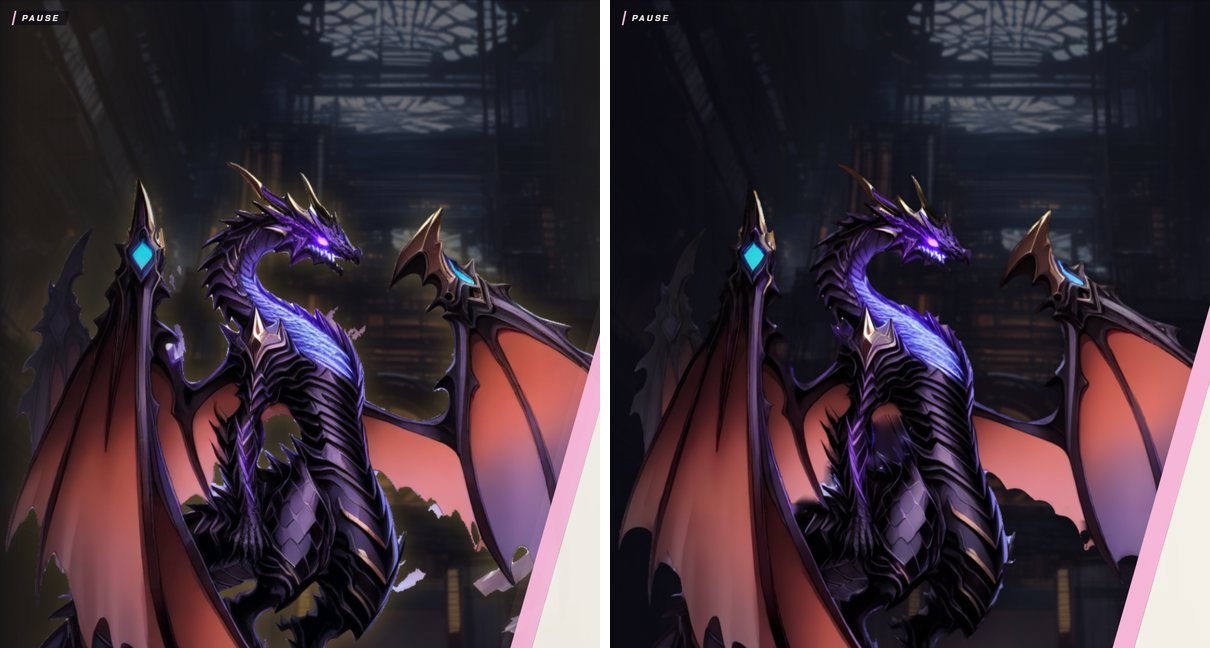
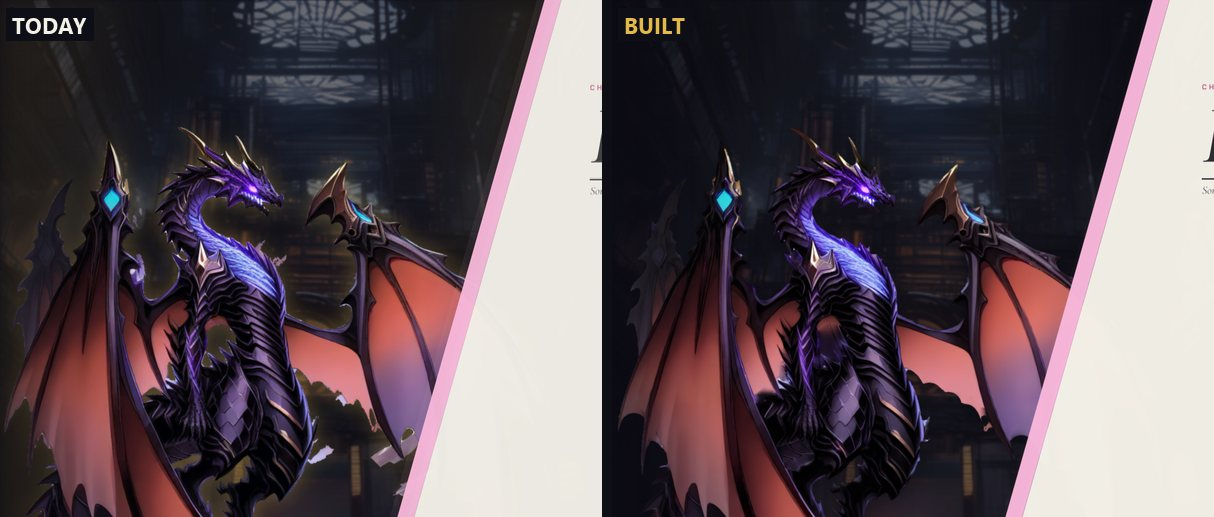
Boss matte, review round: install check, full sha256 list, round 2 handoff and screenshots (Bahamut FFX-2 only, Seymour Flux FFX only; records and tooling)
`tools/boss-matte-install.mjs --check|--install` reads the 158-row files list (now the full 64-hex sha256 of every old and new file, review minor 8) and refuses an art folder that is not the playtest art
state the re-cut was made from (minor 10: main's art lacks 143 of the 158 files; `D:/pyrefly-art-boss` reads 158 done, `D:/pyrefly-art-motion` 158 ready); each old file is unlinked before the new one is
written, so a hard link is never written through. The handoff gets the round 2 section (each finding, its disposition, its measure), the evidence, and the install steps; the repo screenshots are the final
frames (today and built in the same arena). The Bahamut pose pieces (24 of 25 rebuilt from the clean masters, `head.cast` kept, 49 specks removed, the rig gate re-stamped, fit overlaps 0.969 to 0.980)
are art in the mirror, not in this repo.

diff --git a/tests/unit/boss-matte-install.test.ts b/tests/unit/boss-matte-install.test.ts
@@ -1,0 +1,97 @@
+/**
+ * Lane boss-matte (2026-10-23): the install check of the boss re-cut (`tools/boss-matte-install.mjs`): it parses the files doc, classifies every row against an art folder and refuses a folder that is not the
+ * playtest art state the re-cut was made from. Bahamut is FFX-2 only, Seymour Flux FFX only; the tool is shared plumbing.
+ */
+import { createHash } from 'node:crypto';
+import { linkSync, mkdirSync, mkdtempSync, readFileSync, rmSync, statSync, writeFileSync } from 'node:fs';
+import { tmpdir } from 'node:os';
+import { join } from 'node:path';
+import { afterAll, describe, expect, it } from 'vitest';
+import { FILES_DOC, classify, install, parseFilesDoc, summarize } from '../../tools/boss-matte-install.mjs';
+
+const sha = (b: Buffer | string): string => createHash('sha256').update(b).digest('hex');
+const tmp = mkdtempSync(join(tmpdir(), 'boss-matte-install-'));
+afterAll(() => rmSync(tmp, { recursive: true, force: true }));
+
+describe('the files doc', () => {
+  const rows = parseFilesDoc(readFileSync(FILES_DOC, 'utf8'));
+  it('lists the two bosses files with full sha256 hashes', () => {
+    expect(rows.length).toBeGreaterThan(100);
+    for (const r of rows) {
+      expect(r.new).toMatch(/^[0-9a-f]{64}$/);
+      expect(r.old === null || /^[0-9a-f]{64}$/.test(r.old)).toBe(true);
+      expect(r.file).toMatch(/^(characters|rigs)\/(ffx2-bahamut|seymour-flux-body)\//);
+    }
+    expect(rows.some((r) => r.file === 'rigs/ffx2-bahamut/rig.json')).toBe(true);
+    expect(rows.some((r) => r.file === 'rigs/seymour-flux-body/rig.json')).toBe(true);
+    expect(new Set(rows.map((r) => r.file)).size).toBe(rows.length);
+  });
+});
+
+describe('classify and install', () => {
+  const rows = [
+    { file: 'characters/x/a.png', old: sha('a-old'), new: sha('a-new') },
+    { file: 'characters/x/b.png', old: sha('b-old'), new: sha('b-new') },
+    { file: 'rigs/x/c.png', old: null, new: sha('c-new') },
+    { file: 'rigs/x/d.png', old: sha('d-old'), new: sha('d-new') },
+  ];
+  const files: Record<string, string> = { 'characters/x/a.png': 'a-old', 'characters/x/b.png': 'b-new', 'rigs/x/d.png': 'something-else' };
+  const shaOf = (f: string): string | null => (files[f] === undefined ? null : sha(files[f]!));
+
+  it('names the state of every row', () => {
+    const c = classify(rows, shaOf);
+    expect(c.map((r) => r.state)).toEqual(['ready', 'done', 'add', 'conflict']);
+    const s = summarize(c);
+    expect(s).toMatchObject({ ready: 1, done: 1, add: 1, conflict: 1, missing: 0, total: 4, ok: false });
+  });
+
+  it('a file the original should be but is not there is `missing`: the folder is older than the playtest art', () => {
+    const c = classify(rows, () => null);
+    expect(c.map((r) => r.state)).toEqual(['missing', 'missing', 'add', 'missing']);
+    expect(summarize(c).ok).toBe(false);
+  });
+
+  it('a folder in the playtest state, or one already installed, is ok', () => {
+    const before = classify(rows, (f) => ({ 'characters/x/a.png': sha('a-old'), 'characters/x/b.png': sha('b-old'), 'rigs/x/d.png': sha('d-old') })[f] ?? null);
+    expect(summarize(before)).toMatchObject({ ready: 3, add: 1, ok: true });
+    const after = classify(rows, (f) => ({ 'characters/x/a.png': sha('a-new'), 'characters/x/b.png': sha('b-new'), 'rigs/x/c.png': sha('c-new'), 'rigs/x/d.png': sha('d-new') })[f] ?? null);
+    expect(summarize(after)).toMatchObject({ done: 4, ok: true });
+  });
+
+  it('installs by unlinking first, so a hard link to the original keeps its bytes', () => {
+    const art = join(tmp, 'art');
+    const keep = join(tmp, 'keep');
+    const mirror = join(tmp, 'mirror');
+    for (const d of [art, keep, mirror]) mkdirSync(join(d, 'characters/x'), { recursive: true });
+    mkdirSync(join(art, 'rigs/x'), { recursive: true });
+    mkdirSync(join(mirror, 'rigs/x'), { recursive: true });
+    writeFileSync(join(keep, 'characters/x/a.png'), 'a-old');
+    linkSync(join(keep, 'characters/x/a.png'), join(art, 'characters/x/a.png')); // the art folder's file IS the other folder's file
+    writeFileSync(join(mirror, 'characters/x/a.png'), 'a-new');
+    writeFileSync(join(mirror, 'rigs/x/c.png'), 'c-new');
+    const two = [rows[0]!, rows[2]!];
+    const c = classify(two, (f) => (statSafe(join(art, f)) ? sha(readFileSync(join(art, f))) : null));
+    expect(c.map((r) => r.state)).toEqual(['ready', 'add']);
+    expect(install(c, art, mirror)).toEqual(['characters/x/a.png', 'rigs/x/c.png']);
+    expect(readFileSync(join(art, 'characters/x/a.png'), 'utf8')).toBe('a-new');
+    expect(readFileSync(join(keep, 'characters/x/a.png'), 'utf8')).toBe('a-old'); // never written through the link
+    expect(readFileSync(join(art, 'rigs/x/c.png'), 'utf8')).toBe('c-new');
+  });
+
+  it('refuses a mirror file that is not the listed new one', () => {
+    const art = join(tmp, 'art2');
+    const mirror = join(tmp, 'mirror2');
+    mkdirSync(join(art, 'rigs/x'), { recursive: true });
+    mkdirSync(join(mirror, 'rigs/x'), { recursive: true });
+    writeFileSync(join(mirror, 'rigs/x/c.png'), 'not-the-listed-file');
+    expect(() => install(classify([rows[2]!], () => null), art, mirror)).toThrow(/not the listed new file/);
+  });
+});
+
+function statSafe(p: string): boolean {
+  try {
+    return statSync(p).isFile();
+  } catch {
+    return false;
+  }
+}

diff --git a/docs/handoff/boss-matte.md b/docs/handoff/boss-matte.md
@@ -3,10 +3,12 @@
 **Branch `boss-matte`, from `origin/pro-look` (673d76b94). Game case: Bahamut (Chapter IV) is FFX-2 only, Seymour Flux (Chapter I) is FFX only; the shared code (`BossClean.ts`, the two stage hooks, the card modifier) is "both", and only plays for those two figures. One switch, default OFF.**
 Bailey, 2026-10-23 about 10:15 (item 193 of the morning's board): "Yes, re-cut both" (the boss edges, rank-2 mockup option A "Clean cut-out"; the originals are kept). His standing rule of 2026-10-22: "I kind of want to take the ffx/ffx-2 that I know and love and put an expedition 33 kind of spin on it"; the bar is Expedition 33 and Hades. The gap is G20 of `D:/Tools/pyrefly-scratch/2026-10-22/pro-board/gaps/GAPS.md`; the target is `.../pro-board/mock/rank-2/` (option A).
 
+**Round 2 (2026-10-23, 15:00 to 17:00): a review found four majors and thirteen minors (`D:/Tools/pyrefly-scratch/2026-10-23/boss-matte/review/REVIEW.md`); the section "Review round 2" below lists each and what was done. The headline: the boss is now its own per-pixel mask (no rim left beside another figure), the Bahamut pose pieces are rebuilt from the clean masters, `?look=cinematic` no longer throws, and Bahamut's shadow reads.**
+
 ## How to run it (the driver)
 
 1. Code: branch `boss-matte` on `origin` (`git log` says the sha; it contains pro-look 673d76b94 and nothing else of the other lanes). Game case: Bahamut FFX-2 only, Seymour Flux FFX only.
-2. Art: point the tree's `public/art` at `D:/pyrefly-art-boss` (a junction, `cmd /c mklink /J`; it is `D:/pyrefly-art-motion` plus the 158 replaced files) for the test build; at the real install, see "For the driver" below.
+2. Art: point the tree's `public/art` at `D:/pyrefly-art-boss` (a junction, `cmd /c mklink /J`; it is `D:/pyrefly-art-motion` plus the 158 replaced files) for the test build; at the real install, see "For the driver" below. `node tools/boss-matte-install.mjs --check <art dir>` says in one line whether a folder is that state (`D:/pyrefly-art-boss`: 158 done; `D:/pyrefly-art-motion`: 158 ready; main's `public/art`: 143 missing, so it is NOT).
 3. Play: `?demo=1&pack=demo` (the pack turns `?boss=clean` on); `?boss=today` is the A/B.
 
 ## The switch
@@ -40,9 +42,9 @@ Files, per boss, and how many ([boss-matte-files.md](boss-matte-files.md) lists 
 
 1. **Masters** (the six 2x pose masters of each boss, `recut.py`): binary mask at alpha 0.5; loose pieces and the grey/lilac strips beside Bahamut's right wing erased (per-pose polygons in `work/hints-<subject>.json`: inside a polygon only the light, low-saturation pixels go, so the black spars stay); interior holes under 12,000 px filled (Bahamut's pin and torso holes, the gaps between wing and body; in a pose PIECE the limit is per part, body 12,000, head 4,000, wings 3,000, tail 600, because the inside of a tail's loop is a real gap), the texture of armour holes cloned from the painting itself (offset search on the hole's ring of known pixels, low frequencies from the surroundings); narrow channels sealed (closing r 5, r 3 for Seymour so his hair tips stay); wing-membrane bays closed (closing r 46, only on membrane-coloured pixels, grown at most 60 px); outline smoothed (sigma 1, 2.6 on the membrane); eroded 2 px; a 1.6 px anti-aliased edge; translucent interior alpha kept (Bahamut's far wing), the old rim of a closed hole made opaque.
 2. **Colour**: the pale matte colour is removed from the colour too, not only the alpha: the outer 5 px band and everything under alpha 0 take colour pulled (push-pull) from the painting 5 px or more inside the ORIGINAL outline (and not from beside a filled hole), so no white is left for a texture filter to bleed. This is the finding of the mockup lane, measured: the 2x idle master's colour under alpha 0 averages (94, 84, 99) and its outer 6 px band is 40 luminance brighter than the painting 10 px in.
-3. **Rig parts** (`parts.py`): Bahamut and Seymour are rigs (`rigs/ffx2-bahamut`, `rigs/seymour-flux-body`), so the pieces on screen are the rig's parts, not the paintings. The base parts are exact crops of the idle master, so they are rebuilt from the cleaned idle master (new alpha = cleaned alpha times the part's old share of the master's alpha; the pixels the clean-up added go to the nearest part whose mesh covers them). The pose variants (attack, cast, hurt, telegraph, ko) are not plain crops of the pose masters (the rig tool registers each to a bone), so they are cleaned in their own pixel space with the same `recut`, islands kept, no erosion (their cut edges run through the figure), colour changed only where it is the pale halo. Strips beside Bahamut's right wing in its five variants are erased by per-image polygons (`work/hints-parts-ffx2-bahamut.json`). Every new alpha is clipped to the part's mesh (the meshes are unchanged: 98 percent of what the idle clean-up added lies inside them).
+3. **Rig parts** (`parts.py` for the idle parts, `variants2.py` for the pose pieces, then `despeckle.py`). Bahamut and Seymour are rigs (`rigs/ffx2-bahamut`, `rigs/seymour-flux-body`), so the pieces on screen are the rig's parts, not the paintings. The base parts are exact crops of the idle master, so they are rebuilt from the cleaned idle master (new alpha = cleaned alpha times the part's old share of the master's alpha; the pixels the clean-up added go to the nearest part whose mesh covers them). **The pose pieces (attack, cast, hurt, telegraph, ko) were first cleaned in their own pixel space (round 1: torn and bitten wing edges, blob bays; review major 2). Round 2 found what a piece is** (`work/registration-probe.py`): a plain crop of its pose master, resampled bilinear by the part's `tex` (0.33 wings and tail, 0.4 body, 0.55 head) at an integer offset, found by masked normalised cross-correlation (0.97 to 0.998 for 24 of 25 pieces), alpha = the master's alpha times the cut (the label partition with its underlap and feather). `variants2.py` therefore builds each piece as the same crop of the CLEAN master (colour and alpha), keeps the old cut as a share (old piece alpha over old master alpha), gives the pixels the clean-up added to the nearest part whose mesh covers them, keeps the rig tool's own joint fills where the master had nothing, and clips to the part's mesh as before. The clean masters are now what the rig draws, and the rig gate's recorded fit overlap is back up (attack 0.975, cast 0.980, hurt 0.977, telegraph 0.969, ko 0.971, against 0.949 to 0.957 in round 1 and 0.978 to 0.993 for the original art). **`head.cast.png` is the exception:** the motion lane re-graded it (the mouth glow), it is not a crop of the master (colour match 0.40), so it keeps its round-1 clean-up. `despeckle.py` then removes the isolated islands under about 100 px (49 over both the rig and the pose textures: the specks the review counted), and the 1x twins are re-derived. Strips beside Bahamut's right wing are erased in the masters by per-pose polygons (`work/hints-ffx2-bahamut.json`), so the pieces inherit that. Seymour's pieces were already clean and are unchanged.
 4. **1x twins and 1x paintings** are derived by the repo's own tier rule (`tools/rig/rig-tiers.mjs`: `writeTiers`, `verifyTiers` PASS), never authored.
-5. **`rig.json`** changes only in its stamp: the costume's two sha256 (the re-cut idle painting), the keys' recorded fit overlaps (`fit.iou`: the gate now reads attack 0.949, cast 0.948, hurt 0.957, telegraph 0.941 and ko 0.934 for Bahamut against 0.983, 0.993, 0.993, 0.978 and 0.982 recorded; Seymour's all within 0.02; every key is above the gate's bar of 0.75 and the rest pose above 0.95) and the gate's own stamp, by `node tools/rig-gate.mjs` on a private copy (`work/gate-try.mjs`). Nothing in its meshes, weights, keys or motion.
+5. **`rig.json`** changes only in its stamp: the costume's two sha256 (the re-cut idle painting), the keys' recorded fit overlaps (`fit.iou`: the gate now reads attack 0.975, cast 0.980, hurt 0.977, telegraph 0.969 and ko 0.971 for Bahamut against 0.983, 0.993, 0.993, 0.978 and 0.982 recorded for the original art; Seymour's all within 0.02; every key is above the gate's bar of 0.75 and the rest pose above 0.98) and the gate's own stamp, by `node tools/rig-gate.mjs` on a private copy (`work/gate-try.mjs`). Nothing in its meshes, weights, keys or motion.
 6. **Not touched**: rim masks (`*.rim.png`), normal maps (`*.normal.png`), the `splash` painting, the `ko.1/.2/.3` frames, the 3x and 4x paintings (a rig subject never draws them), every sidecar, the manifest.
 
 ### Code
@@ -50,9 +52,9 @@ Files, per boss, and how many ([boss-matte-files.md](boss-matte-files.md) lists 
 | piece | what it does | files |
 |---|---|---|
 | no rim on the boss | the rim (`rimStrength`), the ground bounce (`bounceStrength`) and the HD-2D look's relight rim (`relightRimAmt`, one cell shared by every figure) are zero while the boss's own parts draw (`onBeforeRender` / `onAfterRender` on each part's mesh) and are put back after; the party keeps its rim; nothing is left changed | `engine/look/pro/BossClean.ts` |
-| shadow and turn ring under the footprint | after the actor's own update, the contact shadow and the turn ring are centred and sized from where the painting's bottom band lies in the content box (`BOSS_FEET`: Bahamut cx 0.38, hw 0.251 of its width = under the tail coil; Seymour cx 0.443, hw 0.227 = under the hem and the boot) instead of at the actor's origin | `engine/look/pro/BossClean.ts`, one line in `BattlePresenterStage.add` (attach), one in `update` (tick) |
-| the pro look's two screen-space rims, off on the boss | the pro arena's two passes each draw a rim of their own in screen space (`LookMainShader` LOOK_CINE, `LookBoldShader` step 5): a bright ring along every figure's lit edge, in the room's key colour, over the figure mask. Zeroing the figure's rim cells leaves both (found by toggling each: `work/rimhunt/`, both gains at 0 clears the line). A rigged boss is one tracked mesh PER PART to the bold pass, so `BossRimOff.ts` takes the UNION of a boss's parts' padded screen boxes (`LookBold.boxes`) and every other figure's box; the shaders skip the rim at a pixel inside a boss box and inside no other figure's box (a party member standing in front keeps hers). Counts 0 with the switch off | `engine/look/pro/BossRimOff.ts`, 6 lines in `LookBold.ts` (400 lines), `LookRig.ts` (1 line), 15 lines each in `LookBoldShader.ts` and `LookMainShader.ts` |
-| the bold pass's contact ellipse and reflection, one per boss | the same pass draws a contact shadow and a reflection for every tracked mesh, each standing on the columns of its own lowest rows: for a rig that is five or six ellipses, some under hair or a wing. `bossFigure` gives a re-cut boss's FIRST part one ellipse under the whole footprint (`BOSS_FEET`, from the content box) and its other parts strength 0 | `BossRimOff.ts#bossFigure`, 3 changed lines in `LookBold.figures` |
+| shadow and turn ring under the footprint | after the actor's own update, the contact shadow and the turn ring are centred and sized from where the painting's bottom band lies in the content box. The row is the CURRENT POSE's (`BOSS_FEET_POSES`, measured per pose from the re-cut masters: Seymour's lunge has his boot at 0.577 of the box, not 0.429; review minor 1), eased over about 0.09 s on a pose swap so the shadow slides instead of snapping; the ring keeps the actor's own ease-in and pulse (review minor 6). With the switch off nothing is scanned, patched or written (minor 5). **Bahamut only (review major 4):** the engine's blob is rounder (squash 1.2), 1.6 times as dark (capped 0.92, once per write of the actor), on a plateau texture (the engine's own falls off so fast that 40 percent of its ellipse reads), 1.0 half widths toward the camera so it lies under the tail's lowest edge, and a LIT floor pool of the room's key colour lies under it (`BossMask.pool`, one slot of the bold pass's pool arrays), with the bold pass's contact ellipse 1.4 times taller and 0.6 of its depth lower; all of it goes back when the switch goes off | `engine/look/pro/BossClean.ts`, one line in `BattlePresenterStage.add` (attach), one in `update` (tick) |
+| the pro look's two screen-space rims, off on the boss, per pixel | the pro arena's two passes each draw a rim of their own in screen space (`LookMainShader` LOOK_CINE, `LookBoldShader` step 5): a bright ring along every figure's lit edge, in the room's key colour, over the figure mask. Zeroing the figure's rim cells leaves both. **Round 1 used screen boxes** (the boss's posed bounds minus every other figure's padded rest box); a rectangle is not a figure, and the rim came back wherever another figure's box overlapped the boss (review major 1: Bahamut's tail beside Paine, Seymour's boot beside Mortiorchis). **Round 2 draws a MASK** (`BossMask.ts`): a half-size render target in which every tracked figure is drawn flat the way the frame draws it (the same meshes, camera and painter's order; `Scene.overrideMaterial` with a flat material that reads each mesh's own `map` and `opacity`, a camera layer so only the figures draw), R = 1 for a re-cut boss and 0 for any other figure, A = 1 where a figure is. The two shaders read nine samples of it round a rim pixel (`bossShare`) and remove the rim by the boss's share: the party's, Mortiorchis's and everyone else's stay. A boss's own meshes are read from the actor each frame, so a pose piece or ghost built this frame is on the mask this frame. Nothing is drawn or hooked with the switch off or outside the two chapters; the main look pass without the bold pass (`?look=cinematic`) has two plain uniforms and no array (review major 3: `[]` arrays were flattened every frame there) | `engine/look/pro/BossMask.ts`, one line each in `LookBold.ts` (399 lines) and `LookRig.ts`, a function and one line each in `LookBoldShader.ts` and `LookMainShader.ts` |
+| the bold pass's contact ellipse and reflection, one per boss | the same pass draws a contact shadow and a reflection for every tracked mesh, each standing on the columns of its own lowest rows: for a rig that is five or six ellipses, some under hair or a wing. `bossFigure` gives a re-cut boss's FIRST part one ellipse under the whole footprint (the controller's current row of `BOSS_FEET_POSES`, from the content box) and its other parts strength 0 | `BossMask.ts#bossFigure`, 3 changed lines in `LookBold.figures` |
 | boss card halo | a re-cut boss's card cut-out takes a tight ink edge and a floor shadow in place of the 22 px gold glow (`.bstart__art--clean`) | `ui/common/BattleStartBanner.ts`, `battle-start-banner.css` |
 | console | `__pyrefly.bossClean(...)` | `debug/proApi.ts` |
 
@@ -74,8 +76,44 @@ What the frames show (each is the same moment with and without the re-cut): the 
 
 **Frame cost** (RTX 5070 Ti, headless GPU, 2560 x 1440, 120 back-to-back renders with a GPU sync, `?boss=clean` against `?boss=today` flipped live in one session; the first pair with the card quiet, the second shared with other lanes' jobs, so read the differences): Chapter I render 6.50 / 6.48 ms against 6.50 / 6.53 (shared: 7.31 / 7.31 against 7.39 / 7.22); Chapter IV 8.51 / 8.50 against 8.56 / 8.54 (shared: 9.28 / 10.29 against 9.83 / 9.25). The stage's per-frame update, 300 calls: 0.07 to 0.16 ms against 0.04 to 0.08 ms (the shadow fit, the every-frame part scan and the posed box are well under 1 percent of a 120 Hz frame). **Unchanged within the noise.**
 
-**Checks.** `tsc --noEmit` clean; `tests/unit/engine/boss-clean.test.ts` (18 tests: the switch, the two art ids, the rim cells zero only while a boss part draws and back after, the shadow fit, the card check, the rim-off boxes, the posed box, the one-ellipse rule) pass; the touched families pass (`look-*`, `pro-look-*`, `engine/`, `rig/`, `ui-*`, `demo`: 3,487 tests; the two UI files that time out under load, `ui-ffx2-atbmode` and `ui-pause-stack`, pass alone); `node tools/orphans.mjs` lists the same 24 old orphans, none of the new files; `node tools/rig-gate.mjs --rig <both> --art D:/pyrefly-art-boss --verify` PASS (the stamp is ok for exactly this content, the 1x tier is proved); `node tools/rig-tiers.mjs verify` PASS. The red tests are the art pins: `pose-install-0926`, `pose-install-0930`, `pose-stature-hold`, `held-defend-ffx`, `held-defend-ffx2` (not this lane's: Paine, Yuna, Rikku and others) and `pose-scale-art`, which now also names the twelve re-cut paintings (see "For the driver"). With the switch off (`?boss=today`, the `today-*` frames) the build draws as pro-look does: the rim, the old shadow, the gold card glow.
+**Checks (round 1; round 2's are above).** `tsc --noEmit` clean; `tests/unit/engine/boss-clean.test.ts` (18 tests: the switch, the two art ids, the rim cells zero only while a boss part draws and back after, the shadow fit, the card check, the rim-off boxes, the posed box, the one-ellipse rule) pass; the touched families pass (`look-*`, `pro-look-*`, `engine/`, `rig/`, `ui-*`, `demo`: 3,487 tests; the two UI files that time out under load, `ui-ffx2-atbmode` and `ui-pause-stack`, pass alone); `node tools/orphans.mjs` lists the same 24 old orphans, none of the new files; `node tools/rig-gate.mjs --rig <both> --art D:/pyrefly-art-boss --verify` PASS (the stamp is ok for exactly this content, the 1x tier is proved); `node tools/rig-tiers.mjs verify` PASS. The red tests are the art pins: `pose-install-0926`, `pose-install-0930`, `pose-stature-hold`, `held-defend-ffx`, `held-defend-ffx2` (not this lane's: Paine, Yuna, Rikku and others) and `pose-scale-art`, which now also names the twelve re-cut paintings (see "For the driver"). With the switch off (`?boss=today`, the `today-*` frames) the build draws as pro-look does: the rim, the old shadow, the gold card glow.
 
+
+### Round 2 evidence (2026-10-23, 15:30 to 16:45)
+
+Everything below is real GPU, headless Chromium, `RIG-RECORD` held per job, Vite on :5373 stopped by PID, **0 console errors in every run**. Scripts and frames: `D:/Tools/pyrefly-scratch/2026-10-23/boss-matte/fix/` (`verify.mjs`, `verify2.mjs`, `evidence.mjs`, `shadowab*.mjs`, `poolk.mjs`, `probe-cine.mjs`, `auto.mjs`; frames in `out-*`).
+
+- **The rim, measured** (`out-v1`, `analyze_rim.py`: rim-coloured pixels that lie on the boss by the mask read back from the GPU, the same frame with the switch flipped live to `today`): Chapter IV first menu 167 against 12,934; Chapter I first menu 408 against 2,583 (the 408 are Seymour's own pale hair and stars). The tail and leg beside Paine are clean and Paine keeps her rim (`fix/menu4-tail-cmp.png`).
+- **`?look=cinematic`** (review major 3; `out-cine/probe-bm-ch4.json`): 0 errors at `&look=cinematic` (the review: 396) and at `&look=cinematic&lookstrength=bold`; the frame is lit (mean luminance 34 of 255, the review: black); Seymour Anima and Vegnagun with `?pack=demo`: `bossCleanOn()` false, 0 errors.
+- **21:9 and 16:10** (`out-aspect`, 3440 x 1440 and 2560 x 1600, Chapters I and IV, card and first menu): 0 errors, the party keeps its rim, the boss has none, the card is whole.
+- **The engine plays whole fights to the results screen** (`auto.mjs`, the intended tactics through the real presenter, not pad input): Chapter I at 2560 x 1440 reached results (6278 frames, mean 18.16 ms, p99 49.9, 118 over 25 ms, worst 1850 ms); Chapter IV at 1920 x 1080 reached results (5549 frames, mean 17.33 ms, p99 16.8, 39 over 25 ms, worst 617 ms); the first pass (before the last shadow changes) reached the results screen in both too (6200 frames, mean 17.41 ms, p99 33.2, 65 over 25 ms, worst 1167 ms; 5492 frames, mean 17.18 ms, p99 16.8, 23 over 25 ms, worst 617 ms). Frame times are at 60 Hz in headless Chrome on a machine shared with other lanes' jobs; the second Chapter I pass ran while the full unit suite was running on the same CPU, which is what its p99 and worst frame show (the first pass, quiet: mean 17.4, p99 33.2, worst 1,167 ms, where the review's base build had worst 467 ms: the one start-of-battle hitch, which `BossMask.warm` now takes the mask's shader compile out of).
+- **Frame cost** (120 back-to-back renders with a GPU sync, switch on against `today` flipped live): Chapter IV 8.84 / 8.46 ms against 8.46 / 8.47; Chapter I 6.53 / 6.41 against 6.53 / 6.44. 120 Hz not measured.
+- **The shadow, measured** (frozen A/B, `out-ab*`, `out-dbg`, `out-find`, `out-pk`): see the Major 4 row; the final frames are `out-final6/final6-ch4-menu.png` and `out-ab6`.
+- **Checks.** `tsc --noEmit` clean; `tests/unit/engine/boss-clean.test.ts` 32 tests (the mask draw and every setting it restores, a failed draw, the warm-up, no array uniform in the main look shader, per-pose rows and easing, the ring and the shadow writes, the pool), `tests/unit/boss-matte-install.test.ts` 6; the touched families pass (`look-*`, `pro-look-*`, `r60-defaults`, `r62-demo-card-lift`, `engine/`, `rig/`); the red tests are the art pins listed under "Not done"; `node tools/orphans.mjs` lists no new file; `node tools/rig-gate.mjs --rig <both> --art D:/pyrefly-art-boss --verify` PASS; `node tools/boss-matte-install.mjs --check D:/pyrefly-art-boss` 158 done, `D:/pyrefly-art-motion` 158 ready.
+
+## Review round 2 (what the review found, what was done)
+
+Review: no critical, four majors, thirteen minors; playable. Disposition, with the measure (2560 x 1440, real GPU, headless Chromium, the simulated pad from the title; the same frame with the switch flipped live to `today` is the control).
+
+| finding | disposition |
+|---|---|
+| **Major 1** the rim stays on a boss's edge wherever another figure's padded box overlaps | **Fixed.** `BossMask.ts`: a half-size mask of the figures drawn the way the frame draws them (R = a re-cut boss, A = any figure), read by both rim shaders; the party's, Mortiorchis's and everyone else's rim stays. Rim-coloured pixels on the boss (selected by the mask read back from the GPU): Chapter IV first menu 167 against 12,934 with the switch flipped to today; Chapter I first menu 408 against 2,583 (the remainder is the detector's hits on Seymour's own pale hair and stars, `out-v1/ch1-menu-rimmarks.png`). The tail and leg beside Paine and the shin beside Mortiorchis are clean (`fix/menu4-tail-cmp.png`: today's code above, this build below). |
+| **Major 2** the rig draws pose pieces that are not as clean as the masters | **Fixed for Bahamut.** A piece is a plain crop of its pose master (found by correlation, 0.97 to 0.998); `variants2.py` rebuilds all 24 that are crops from the CLEAN masters; the rig gate's fit overlaps went up to 0.969 to 0.980 (round 1: 0.934 to 0.957; original art 0.978 to 0.993). `head.cast.png` keeps its round-1 clean-up (the motion lane's own grade, not a crop). Seymour's were clean and are untouched. |
+| **Major 3** `?look=cinematic` flattened empty arrays every frame (396 page errors, a black frame) | **Fixed.** The arrays are gone with the boxes: the main pass owns two plain uniforms (`tBossMask`, `bossMaskOn`). A unit test pins "no array uniform in the main look shader"; the browser probe (`fix/probe-cine.mjs`, Chapter IV at `&look=cinematic` and `&look=cinematic&lookstrength=bold`, then Seymour Anima and Vegnagun) is in the evidence below. |
+| **Major 4** Bahamut has no visible contact shadow | **Fixed; the cause was measured, and it was not the code.** Frozen A/B (one thing off, same frame): the arena's grade lifts its blacks (the floor is 66 of 255; the darkest a shadow reaches is about 48), so the bold pass's contact shadow changed the floor by under 2 levels on average and the engine's blob by under 1 (its texture also lit only 40 percent of its ellipse, and a flat ellipse on the foot line showed 18 px of itself behind the tail). A shadow on that floor has no room; light round it does. Now: a lit floor pool in the room's key colour under the boss (`BossMask.pool`, one slot of the bold pass's pool arrays, strength chosen from a live sweep of `bold.pool`), the contact ellipse taller and lower (its dark core sits under the tail's lowest edge, not behind it), the engine's blob a plateau texture, rounder, forward and 1.6 times as dark; the turn ring stays flat. It reads as a lit floor with a dark oval under the tail (`fix/out-final6/final6-ch4-menu.png`, `phone/bahamut.jpg`). Seymour is unchanged (his shadow already read). The mockup's synthetic reflection is not built (the engine's own is). |
+| minor 1 the footprint is one fraction per boss | **Fixed.** `BOSS_FEET_POSES`: the current pose's row, measured per pose from the re-cut masters, eased over 0.09 s. Real-time sweep (`fix/out-w1`): Seymour's foot point stays within 0.4 world units across the six poses (the review: 0.5 to 0.84). |
+| minor 2 Mortiorchis untouched | Disclosed, not re-cut (not in the mockup, not asked). |
+| minor 3 Mega Flare splash not re-cut | Disclosed (its own cut-in painting; drawn about a second). |
+| minor 4 the phone cards compare unlike arenas | **Fixed.** TODAY and BUILT are the same arena (the pro-look build, `?boss=today` with the original art against the re-cut); MOCKUP A says its arena is brighter. `work/make_cards2.py`. |
+| minor 5 comment says nothing is patched when off, `tick()` patched every frame | **Fixed.** With the switch off nothing is scanned, patched or written (a part is patched the first frame the switch is on; a test pins it). |
+| minor 6 the turn ring no longer pulses | **Fixed.** The actor's own ring factor (ease-in and pulse) is kept; a scale this fit wrote and the actor has not rewritten does not feed back. |
+| minor 7 `LookBold.ts` is exactly 400 lines | **Fixed.** 399; the overwritten comment above `stats` is back. |
+| minor 8 hash list is 16 hex | **Fixed.** `boss-matte-files.md` and `work/final-table.md` carry the full sha256 (64 hex) of every file; `tools/boss-matte-install.mjs` reads them. |
+| minor 9 art-pin tests red until `measure` is re-run | Disclosed above; `node tools/art-install.mjs` does it at install. |
+| minor 10 install coupling | **Fixed as a check.** `tools/boss-matte-install.mjs --check` refuses a folder that is not the playtest art state (a test pins it; main's art says "143 missing"). |
+| minor 11 turn-order list over Seymour's head at 1280 x 720 | The HUD lane's. |
+| minor 12 frame time | Headless GPU, 60 Hz, 2560 x 1440, 120 back-to-back renders: Chapter IV 8.84 / 8.46 ms with the switch on against 8.46 / 8.47 off; Chapter I 6.53 / 6.41 against 6.53 / 6.44 (the mask pass is a half-size draw of about twenty planes). 120 Hz not measured. |
+| minor 13 rig specks | **Fixed.** `despeckle.py` removes the 49 isolated islands under about 100 px from the Bahamut rig textures (the specks the review counted); invisible at game scale before and after. |
 
 ## Sourced vs [ours]
 
@@ -83,17 +121,18 @@ Nothing here is game data. Every number is [ours]: the erosion, closing radii, h
 
 ## For the driver (install)
 
-1. The art goes in at install time: for each file in `work/final-table.md`, version the original in the private art repo (`BaileyPillon/pyrefly-art`), then replace it with the file of the same name from the test mirror `D:/pyrefly-art-boss`.
+1. The art goes in at install time, **onto the playtest art state** (`D:/pyrefly-art-motion`; main's `public/art` lacks 143 of the 158 files and a re-cut file would land on nothing). First version the originals in the private art repo (`BaileyPillon/pyrefly-art`), then `node tools/boss-matte-install.mjs --check <art dir>` (every row `ready`, or `done` when it is installed), then `node tools/boss-matte-install.mjs --install <art dir> --from D:/pyrefly-art-boss` (each old file is unlinked first, so a hard link is never written through; it refuses any folder with a `missing` or `conflict` row and changes nothing). The old and new sha256 of every file (full, 64 hex) are in [boss-matte-files.md](boss-matte-files.md).
 2. The pose-scale record pins the sha256 of every pose painting: `tests/unit/engine/pose-scale-art.test.ts` names the twelve (`ffx2-bahamut/*`, `seymour-flux-body/*`: "the painting changed since it was measured") until `measure` is run again on them. The registration numbers are unlikely to move (same size, same anchor, the silhouette moves by about 2 px), but the record is the art lane's.
 3. The rig gate stamps its content (`gate.digest`) and the costume's sha: `node tools/rig-gate.mjs --rig <folder>` must be run on both rigs again before a deploy (`--verify` is what the deploy runs).
 
 ## Not done (disclosed)
 
 - **The ink line.** The mockup's "one thin dark ink line instead of the glow" is NOT in the art. I built it (the outer 3 px of the master darkened toward the painting's own shadow colour, `recut.py --ink=0.55`) and judged the clean edge against it at the game's scale (about 0.47 of the 2x master at 1440p, `work/an/ink-compare.jpg`): the ink line reads slightly crisper on the wing membranes, the clean edge is already free of any pale line. The ink cannot be applied to the pose pieces without the rig tool's own registration (their cut edges run through the figure and would draw a dark seam), and an idle with an ink line crossfading to poses without one would pop. So the build ships the clean edge everywhere; the engine's own ink (the pro look's outline) is untouched.
-- **The pose pieces keep their underlap.** Only Bahamut's right-wing pieces (five poses) have the grey strips erased (per-image polygons); the other pieces still carry small dark fragments of their neighbours (the partition's underlap), covered by the neighbour part. The pieces are not plain crops of the pose masters (the rig tool registers each to a bone), so the master-level clean-up could not be mapped onto them; they were cleaned in their own pixel space (same `recut`, islands kept, no erosion).
+- **The pose pieces keep their underlap** (the partition's overlap with the neighbouring part, covered by the neighbour). Round 2 builds each piece from the clean master, so the specks and torn edges of round 1 are gone; `head.cast.png` alone keeps its round-1 clean-up, because the motion lane re-graded it and it is not a crop of the master.
+- **Mortiorchis** (Chapter I's second enemy) is not re-cut: it keeps its rim and matte, as in today's build. Not in the mockup, not asked.
 - **The Mega Flare banner's `splash` painting, the `ko.1/.2/.3` frames and the 3x and 4x paintings are not re-cut.** The splash is its own cut-in painting with a soft glow and a hard rectangular notch at the left; it is drawn for about a second. A rig subject never draws the 3x and 4x masters.
 - **The reflection is the engine's own** (a mirrored camera draws the boss with the room), not the mockup's synthetic one; it follows the clean figure. The bold pass's reflection and contact ellipse stand on `BOSS_FEET`.
-- **The pose-scale records** (`docs/target/pose-measure.json`, the registration rows) pin the sha256 of the twelve re-cut paintings: `pose-scale-art.test.ts` names them until `measure` is run again (ComfyUI's python; this machine's has no scipy). The art lane's tool; the silhouette moved by about 2 px.
+- **The pose-scale records** (`docs/target/pose-measure.json`, the registration rows) pin the sha256 of the twelve re-cut paintings: `pose-scale-art.test.ts` names them until the registration is measured again. `node tools/art-install.mjs` does it at install (`measure.py measure <subjects> --write` with ComfyUI's python; this machine's has no scipy, so it was not run here). The silhouette moved by about 2 px. These art-pin tests (and `pose-install-0926`, `-0930`, `pose-stature-hold`, `held-defend-*`) stay red on the playtest art state whatever this lane does: a push gate for the install, not for the code.
 - **Re-run after any further change to the art:** `node tools/rig-gate.mjs --rig <folder> --art <art dir>` (the gate stamp is for exactly the content it judged). The candidate `rig.json` files already carry the stamp for the files in the mirror.
-- 2560 x 1440 only; 21:9 and 16:10 were not drawn for. The shadow fit reads the content box, so it holds at any size; the rim boxes are screen boxes, so they do too.
+- The frame cost is measured on this machine at 60 Hz in headless Chrome (2560 x 1440: +0.0 to +0.4 ms for the mask pass); 120 Hz is not measured. Pad to Victory was not driven by a pad bot (the engine's auto player plays whole fights through the same presenter, see Evidence).
 

diff --git a/docs/handoff/boss-matte-files.md b/docs/handoff/boss-matte-files.md
@@ -18,67 +18,67 @@ Regenerate with `node D:/Tools/pyrefly-scratch/2026-10-23/boss-matte/work/final-
[126 lines of base64/hex data omitted]
